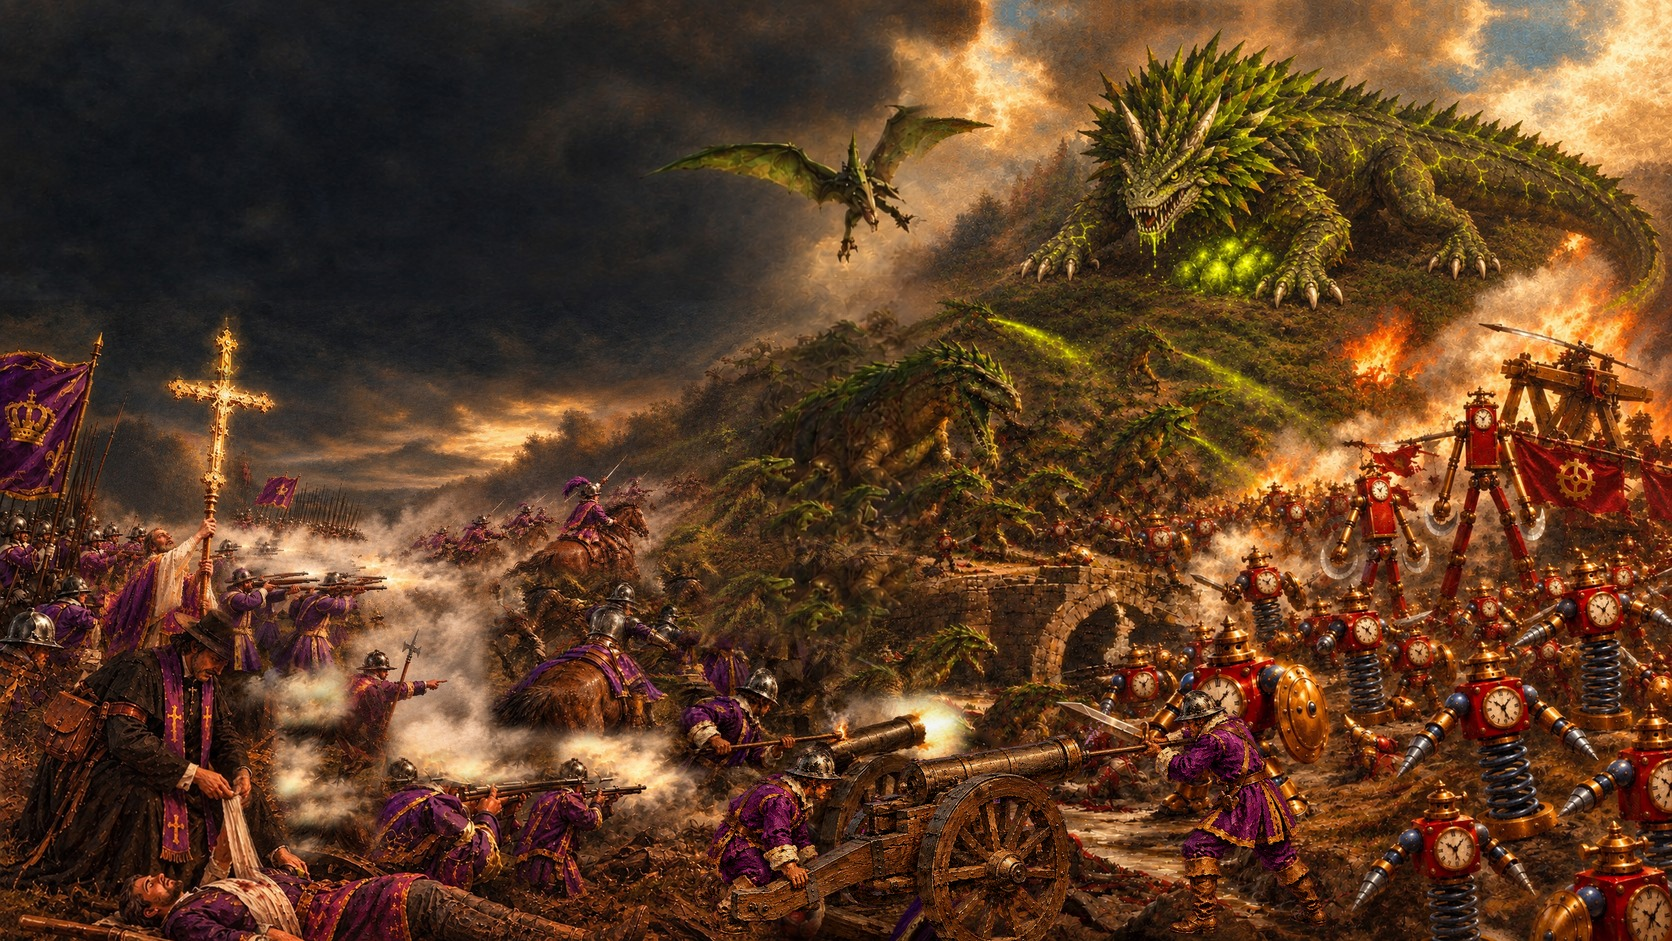
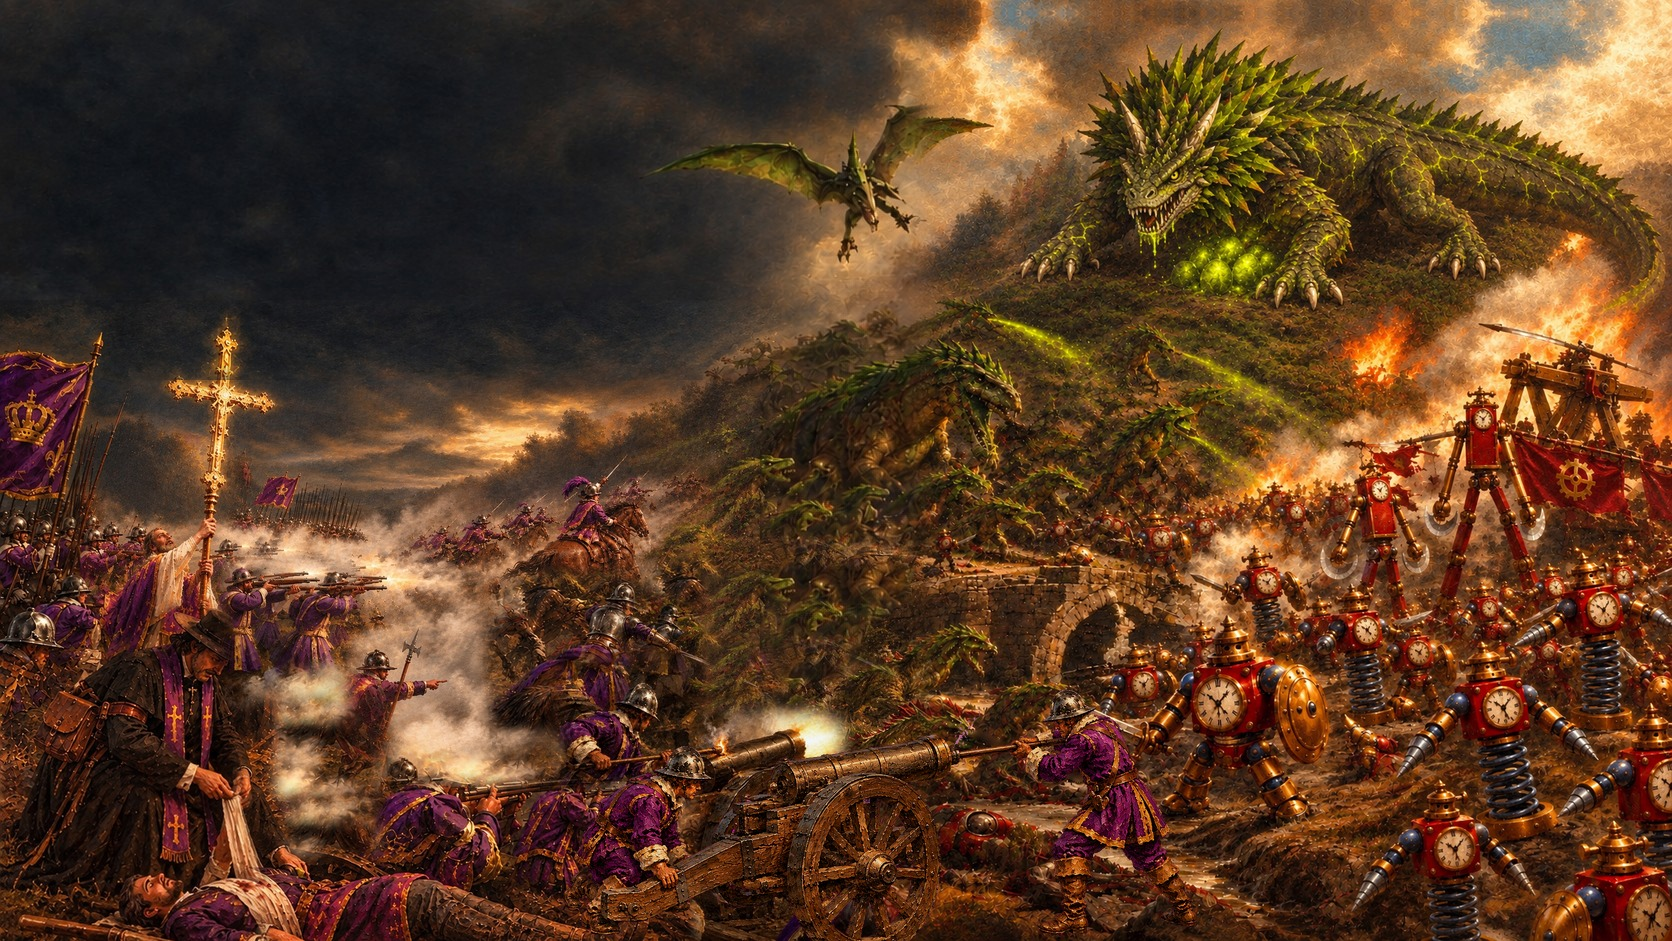
0.33.45: menu painting: both cannons moved left
Claude-Session: https://claude.ai/code/session_01NtmEZhP1uA8k4DLQ7BYfMz

Changed region(s): [[0.311, 0.678, 0.8086, 1.0]]

diff --git a/README.md b/README.md
@@ -2,7 +2,7 @@
 
 *(a working title: the game was called Holdfast until October 2026, but that name belongs to another game; the web address, the app file and the repository keep the old name for now so links and installs keep working)*
 
-**Play in your browser (version 0.33.44): https://holdfastrts.github.io/Holdfast/**
+**Play in your browser (version 0.33.45): https://holdfastrts.github.io/Holdfast/**
 
 **Windows program: https://holdfastrts.github.io/Holdfast/Holdfast_windows.zip** (rebuilt on every push; unzip it and run Holdfast.exe; if Windows warns "Windows protected your PC", click More info, then Run anyway)
 
